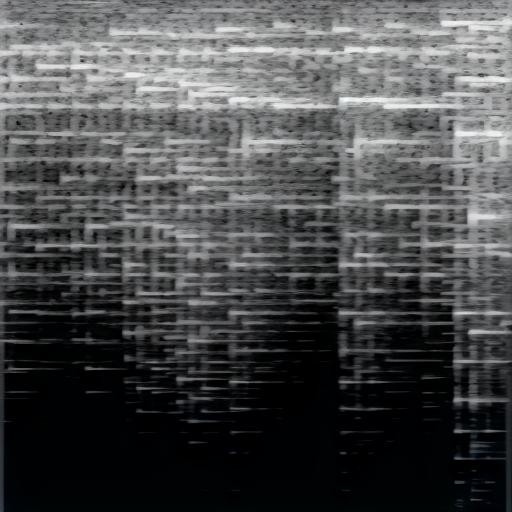
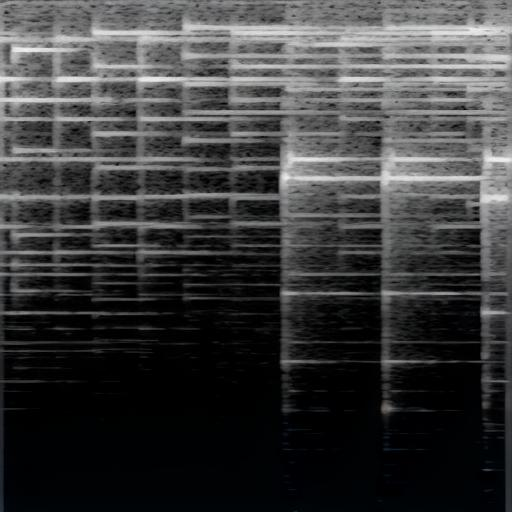
More failed model attempts

diff --git a/Final_Diffusion_Model/hugging_face_tutotial.py b/Final_Diffusion_Model/hugging_face_tutotial.py
@@ -19,19 +19,20 @@ from tqdm.auto import tqdm
 from pathlib import Path 
 import glob
 
+from normalise_latents import ArrayNormalizer
 from HFAutoencoder import ImageAutoencoder
 
 
 @dataclass
 class TrainingConfig:
     image_size = 64  # the generated image resolution
-    train_batch_size = 16
-    eval_batch_size = 16  # how many images to sample during evaluation
-    num_epochs = 50
+    train_batch_size = 32
+    eval_batch_size = 8  # how many images to sample during evaluation
+    num_epochs = 100
     gradient_accumulation_steps = 1
-    learning_rate = 1e-4
+    learning_rate = 1e-5
     lr_warmup_steps = 500
-    save_image_epochs = 1
+    save_image_epochs = 15
     save_model_epochs = 10
     seed = 0
     mixed_precision = "fp16"
@@ -58,6 +59,9 @@ train_dataloader = torch.utils.data.DataLoader(dataset, batch_size=config.train_
 
 # instantiate autoencoder
 autoencoder = ImageAutoencoder()
+
+# instantiate denormaliser
+denormaliser = ArrayNormalizer("", min = -95.43647003173828, max = 89.94168853759766)
 
 # UNET MODEL
 model = UNet2DModel(
@@ -133,7 +137,10 @@ def evaluate(config, epoch, pipeline):
         img_tensor = transforms.ToTensor()(img).unsqueeze(0).to(device)
         print("\n\n", img_tensor.shape)
         print("\n\n", img_tensor)
-        decoded_tensor = autoencoder.decode(img_tensor)
+        denormalised_numpy = denormaliser.denormalize_array(img_tensor.cpu().numpy())
+        print("\n\n", denormalised_numpy)
+        denormalised_tensor = torch.from_numpy(denormalised_numpy).to(device)
+        decoded_tensor = autoencoder.decode(denormalised_tensor)
         
         
         autoencoder.save_image(decoded_tensor, f"Final_Diffusion_Model//test_out//samples//epoch_{epoch:04d}_decoded_{i}.png")

diff --git a/Audio_Processing/scripts/check_latent_spects.py b/Audio_Processing/scripts/check_latent_spects.py
@@ -1,25 +1,16 @@
 from HugginFaceMelSpect import AudioSpectrogramConverter
 from HFAutoencoder import ImageAutoencoder
+from normalise_latents import ArrayNormalizer
 import numpy as np
 import torch
-
-def normalize(data):
-    min_val = np.min(data)
-    max_val = np.max(data)
-    normalized = (data - min_val) / (max_val - min_val)
-    return normalized, min_val, max_val
-
-def denormalize(normalized_data, min_val, max_val):
-    original_data = normalized_data * (max_val - min_val) + min_val
-    return original_data
-
 autoencoder = ImageAutoencoder()
-
-spect_num = 10
-
+denormaliser = ArrayNormalizer("", -95.43647003173828, 89.94168853759766)
+spect_num = 1276
+np.set_printoptions(suppress=True,precision=3)
 loaded = np.load(f"Audio_Processing//latents//latent_spectogram_{spect_num}.npy")
-loaded, min, max = normalize(loaded)
-loaded = denormalize(loaded, min, max)
+print(loaded)
+loaded = denormaliser.denormalize_array(loaded)
+print(loaded)
 torchy = torch.from_numpy(loaded).float()
 
 # print(torchy)
